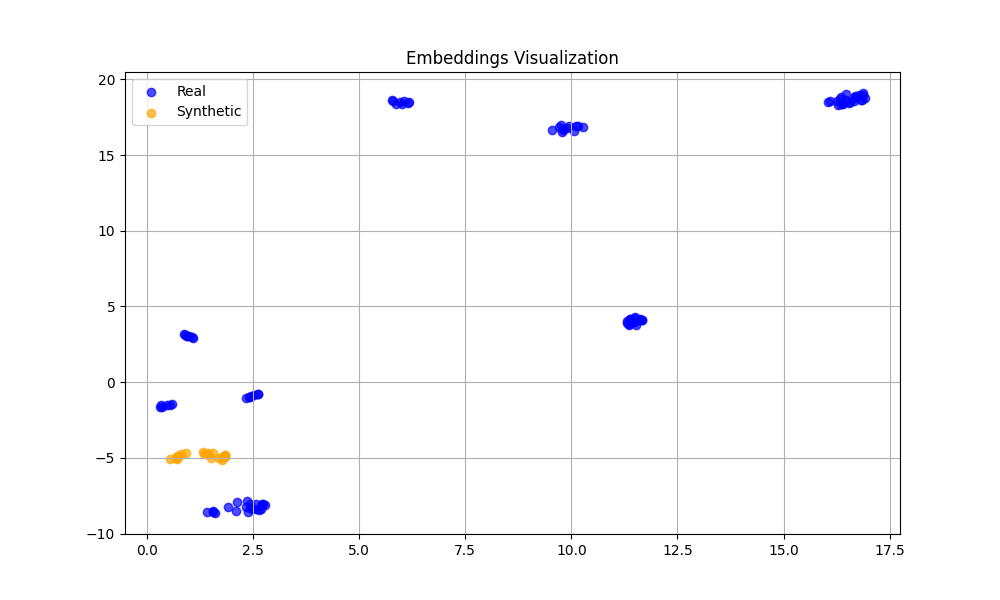
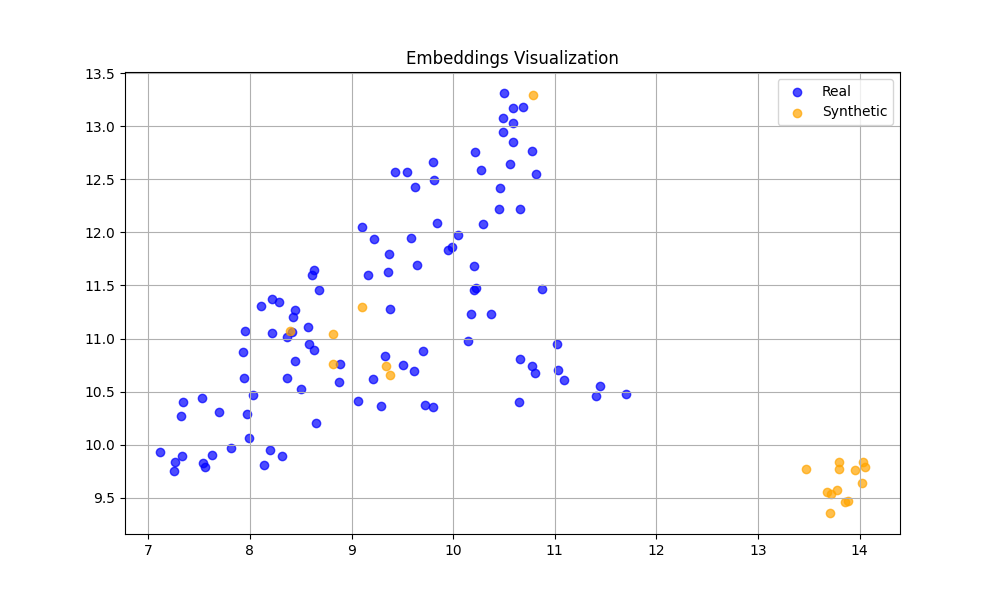
add metrics for whole datasets with L rephrasing

diff --git a/main.py b/main.py
@@ -95,24 +95,24 @@ def main():
     # save initial synthetic samples.
     log_samples(samples=seed_syn_samples, additional_info=seed_additional_info,
                 folder=f'{args.result_folder}/{start_t-1}')
-    if args.compute_fid:
+    # if args.compute_fid:
 
-        # print("-----------------------------111-\n\n", seed_syn_samples, "------------------------------\n\n")
+    #     print("-----------------------------111-\n\n", seed_syn_samples, "------------------------------\n\n")
 
-        synthetic_features = extract_features(
-            data=seed_syn_samples,
-            batch_size=args.feature_extractor_batch_size,
-            model_name=args.feature_extractor,
+    #     synthetic_features = extract_features(
+    #         data=seed_syn_samples,
+    #         batch_size=args.feature_extractor_batch_size,
+    #         model_name=args.feature_extractor,
 
-        )
-        # print("-----------------------------222-\n\n", len(synthetic_features), "------------------------------\n\n")
+    #     )
+    #     # print("-----------------------------222-\n\n", len(synthetic_features), "------------------------------\n\n")
 
-        # compute_fid(synthetic_features, all_private_features, args.feature_extractor,
-        #             folder=args.result_folder,  step=start_t-1, log_online=args.log_online)
+    #     # compute_fid(synthetic_features, all_private_features, args.feature_extractor,
+    #     #             folder=args.result_folder,  step=start_t-1, log_online=args.log_online)
         
-        log_metrics(all_private_samples, seed_syn_samples,  
-                    all_private_features, synthetic_features,
-                        step=start_t-1, log_online=args.log_online, result_folder=args.result_folder, epoch=start_t-1)
+    #     log_metrics(all_private_samples, seed_syn_samples,  
+    #                 all_private_features, synthetic_features,
+    #                     step=start_t-1, log_online=args.log_online, result_folder=args.result_folder, epoch=start_t-1)
 
     if args.init_combine_divide_L > 1:
         parent_directory = os.path.dirname(args.data_checkpoint_path)
@@ -153,6 +153,25 @@ def main():
                     args.init_combine_divide_L
             log_samples(samples=syn_samples, additional_info=additional_info,
                         folder=f'{args.result_folder}/-1')
+            
+            if args.compute_fid:
+
+                print("-----------------------------111-\n\n", "------------------------------\n\n")
+
+                synthetic_features = extract_features(
+                    data=syn_samples,
+                    batch_size=args.feature_extractor_batch_size,
+                    model_name=args.feature_extractor,
+
+                )
+                # print("-----------------------------222-\n\n", len(synthetic_features), "------------------------------\n\n")
+
+                # compute_fid(synthetic_features, all_private_features, args.feature_extractor,
+                #             folder=args.result_folder,  step=start_t-1, log_online=args.log_online)
+                
+                log_metrics(all_private_samples, syn_samples,  
+                            all_private_features, synthetic_features,
+                                step=start_t-1, log_online=args.log_online, result_folder=args.result_folder, epoch=start_t-1)
     else:
         syn_samples, additional_info = seed_syn_samples, seed_additional_info
 
@@ -192,6 +211,7 @@ def main():
 
         # iterate over # lookahead_degree variations.
         for i in range(packed_samples.shape[1]):
+            print("packed_samples")
             sub_packed_features = extract_features(
                 data=packed_samples[:, i],
                 batch_size=args.feature_extractor_batch_size,
@@ -199,6 +219,8 @@ def main():
 
             )
             packed_features.append(sub_packed_features)
+
+        print("before mean", len(packed_features))
 
         # take the averaged embedding for each sequence..
         packed_features = np.mean(packed_features, axis=0)
@@ -280,6 +302,9 @@ def main():
                 # logging.info(f'selected_syn_samples shape {len(selected_syn_samples)} label {len(selected_additional_info)}')
                 assert len(selected_syn_samples) == len(
                     selected_additional_info)
+                
+                print("selected_syn_samples")
+                print("selected_syn_samples", len(selected_syn_samples))
 
                 new_variants_samples = []
                 if args.combine_divide_L == 1:
@@ -309,21 +334,29 @@ def main():
                 # logging.info(f'new_variants_samples shape {len(new_variants_samples)} label {len(new_variants_additional_info)}')
 
                 new_syn_samples.extend(new_variants_samples)
+
+                print("new_syn_samples")
+                print(len(new_syn_samples))
+
                 new_additional_info.extend(new_variants_additional_info)
                 sync_labels_counter[class_] = len(
                     new_variants_samples)  # update class size
 
             if args.save_syn_mode == 'selected':
+                print('selected', len(all_selected_samples), len(selected_syn_samples))
                 all_selected_samples.extend(selected_syn_samples)
                 all_selected_additional_info.extend(selected_additional_info)
+                print('selected', len(all_selected_samples), len(selected_syn_samples))
             elif args.save_syn_mode == 'one_var':
                 all_selected_samples.extend(new_variants_samples_stacked[:, 0])
                 all_selected_additional_info.extend(selected_additional_info)
             elif args.save_syn_mode == 'all':
+                print('all', len(all_selected_samples), len(new_variants_samples))
                 all_selected_samples.extend(
                     new_variants_samples)  # all ---  L times size
                 all_selected_additional_info.extend(
                     new_variants_additional_info)
+                print('all',  len(all_selected_samples), len(new_variants_samples))
 
             current_idx += public_features.shape[0]
 
@@ -333,10 +366,10 @@ def main():
                                additional_info=all_selected_additional_info, folder=f'{args.result_folder}/{t}')
 
         if args.compute_fid:
-            # print("-----------------------------333-\n\n", all_selected_samples, "------------------------------\n\n")
+            print("-----------------------------333-\n\n", len(all_selected_samples), len(syn_samples), "------------------------------\n\n")
 
             synthetic_features = extract_features(
-                data=all_selected_samples,
+                data=syn_samples,
                 batch_size=args.feature_extractor_batch_size,
                 model_name=args.feature_extractor,
 
@@ -345,7 +378,7 @@ def main():
 
             # compute_fid(synthetic_features, all_private_features, args.feature_extractor,
             #             folder=args.result_folder,  step=t, log_online=args.log_online)
-            log_metrics(all_private_samples, all_selected_samples, 
+            log_metrics(all_private_samples, syn_samples, 
                         all_private_features, synthetic_features,
                         step=t, log_online=args.log_online, result_folder=args.result_folder, epoch=t)
 

diff --git a/metric.py b/metric.py
@@ -22,6 +22,7 @@ from datasets import load_dataset
 from dpsda.metrics import calculate_fid, num_tokens_from_string, get_lengths, plot_length_distributions, plot_metrics
 
 from dpsda.logging import *
+from dpsda.feature_extractor import extract_features
 from utility_eval.compute_mauve import *
 from utility_eval.precision_recall import *
 from apis.utils import set_seed 
@@ -30,7 +31,7 @@ import time
 os.environ["TOKENIZERS_PARALLELISM"] = "false"
 encoding = tiktoken.encoding_for_model("gpt-3.5-turbo")
 
-def eval_one_file(syn_fname, all_original_embeddings, model, csv_fname, batch_size, private_data_size, num_run, k, dataset="yelp", min_token_threshold=100, epoch=None, 
+def eval_one_file(syn_fname, all_original_embeddings, model_name_or_path, csv_fname, batch_size, private_data_size, num_run, k, dataset="yelp", min_token_threshold=100, epoch=None, 
                   real_file="", synthetic_folder=""):
     syn_data = load_dataset("csv", data_files=syn_fname)
 
@@ -48,19 +49,33 @@ def eval_one_file(syn_fname, all_original_embeddings, model, csv_fname, batch_si
             if len_d > min_token_threshold:
                 synthetic_data.append(d)
     elif dataset == "mimic":
+        print("This is mimic")
         synthetic_data = [d for d in syn_data['train']['text']]
+        print("--- syn data len 1 ---", (len(synthetic_data)))
+        df = pd.read_csv(syn_fname)
+        print(len(df))  
+        synthetic_data = df['text'].tolist()
+        print("--- syn data len 2 ---", (len(synthetic_data)))
+
     else:
         synthetic_data = [d for d in syn_data['train']['text']]
-    print("--- syn data len %d  ---" % (len(synthetic_data)))
+    print("--- syn data len ---", (len(synthetic_data)))
 
     start_time = time.time()
-    with torch.no_grad():
-        synthetic_embeddings = []
-        for i in tqdm(range(len(synthetic_data) // batch_size+1)):
-            embeddings = model.encode(
-                synthetic_data[i * batch_size:(i + 1) * batch_size])
-            synthetic_embeddings.append(embeddings)
-        all_synthetic_embeddings = np.concatenate(synthetic_embeddings)
+
+    all_synthetic_embeddings = extract_features(
+            data=synthetic_data,
+            batch_size=1024,
+            model_name=model_name_or_path,
+        )
+
+    # with torch.no_grad():
+    #     synthetic_embeddings = []
+    #     for i in tqdm(range(len(synthetic_data) // batch_size+1)):
+    #         embeddings = model.encode(
+    #             synthetic_data[i * batch_size:(i + 1) * batch_size])
+    #         synthetic_embeddings.append(embeddings)
+    #     all_synthetic_embeddings = np.concatenate(synthetic_embeddings)
 
     print("--- %s seconds for computing emb ---" % (time.time() - start_time))
 
@@ -96,12 +111,13 @@ def eval_one_file(syn_fname, all_original_embeddings, model, csv_fname, batch_si
             df = pd.read_csv(real_file)  
             real_text_list = df["text"].tolist()
 
-            metrics = compare_text_sets(real_text_list, synthetic_data, original_embeddings, synthetic_embeddings)
-
             real_lengths = get_lengths(real_text_list)
             synth_lengths = get_lengths(synthetic_data)
-            plots_folder = os.path.join(synthetic_folder, "plots_metrics")
+            plots_folder = os.path.join(synthetic_folder, "plots_metrics_inference")
             os.makedirs(plots_folder, exist_ok=True)
+
+            metrics = compare_text_sets(real_text_list, synthetic_data, original_embeddings, synthetic_embeddings, result_folder=plots_folder, epoch=epoch)
+
             plot_length_distributions(real_lengths, synth_lengths, filename=os.path.join(plots_folder, f"length_distribution_{epoch}.png"))
 
 
@@ -207,8 +223,8 @@ def main():
                notes=args.wandb_notes,
                config=vars(args))
     
-    model = SentenceTransformer(args.model_name_or_path)
-    model.eval()
+    # model = SentenceTransformer(args.model_name_or_path)
+    # model.eval()
 
     dataset2embedding_file = {
         "yelp": f"result/embeddings/{args.model_name_or_path}/yelp_train_all.embeddings.npz",
@@ -232,7 +248,7 @@ def main():
                 args.synthetic_file), 'eval_metric.csv')
             metrics = eval_one_file(syn_fname=args.synthetic_file, 
                                   all_original_embeddings=all_original_embeddings, 
-                                  model=model,
+                                  model=args.model_name_or_path,
                                   csv_fname=csv_fname, 
                                   batch_size=args.batch_size,
                                   private_data_size=args.private_data_size,
@@ -273,7 +289,7 @@ def main():
                 print(f'Processing {csv_fname}')
                 metrics = eval_one_file(syn_fname=syn_data_file, 
                                       all_original_embeddings=all_original_embeddings, 
-                                      model=model,
+                                      model=args.model_name_or_path,
                                       csv_fname=csv_fname, 
                                       batch_size=args.batch_size,
                                       private_data_size=args.private_data_size,

diff --git a/dpsda/feature_extractor.py b/dpsda/feature_extractor.py
@@ -1,6 +1,7 @@
 import numpy as np
 from tqdm import tqdm
 import torch
+from transformers import AutoTokenizer, AutoModel
 from sentence_transformers import SentenceTransformer
 
 # https://github.com/UKPLab/sentence-transformer
@@ -9,19 +10,59 @@ from sentence_transformers import SentenceTransformer
 def extract_features(
         data,
         batch_size=1000,
-        model_name="all-mpnet-base-v2"):
+        model_name="all-mpnet-base-v2", sentence_transformer=True):
     # If available, the model is automatically executed on the GPU. You can specify the device for the model like this:
 
-    model = SentenceTransformer(model_name)  # device='cuda',
-    model.eval()
+    if sentence_transformer:
+        model = SentenceTransformer(model_name)  # device='cuda',
+        model.eval()
 
+        with torch.no_grad():
+            sentence_embeddings = []
+            for i in tqdm(range(len(data) // batch_size+1)):
+                embeddings = model.encode(
+                    data[i * batch_size:(i + 1) * batch_size])
+                if len(embeddings) > 0:
+                    sentence_embeddings.append(embeddings)
+        sentence_embeddings = np.concatenate(sentence_embeddings)
+        del model
+
+        print("Shape length of sentence_embeddings", sentence_embeddings.shape)
+
+        return sentence_embeddings
+    
+    tokenizer = AutoTokenizer.from_pretrained(model_name)
+    model = AutoModel.from_pretrained(model_name)
+    model.eval()
+    
+    # Move model to GPU if available
+    device = torch.device("cuda" if torch.cuda.is_available() else "cpu")
+    model = model.to(device)
+    
+    sentence_embeddings = []
+    
     with torch.no_grad():
-        sentence_embeddings = []
-        for i in tqdm(range(len(data) // batch_size+1)):
-            embeddings = model.encode(
-                data[i * batch_size:(i + 1) * batch_size])
+        for i in tqdm(range(0, len(data), batch_size)):
+            batch = data[i:i + batch_size]
+            
+            # Tokenize and move to device
+            inputs = tokenizer(
+                batch, 
+                padding=True, 
+                truncation=True, 
+                return_tensors="pt", 
+                max_length=512  # Adjust based on your needs
+            ).to(device)
+            
+            # Forward pass
+            outputs = model(**inputs)
+            
+            # Use mean pooling for sentence embeddings
+            embeddings = outputs.last_hidden_state.mean(dim=1).cpu().numpy()
+            
             if len(embeddings) > 0:
                 sentence_embeddings.append(embeddings)
+    
     sentence_embeddings = np.concatenate(sentence_embeddings)
-    del model
+    del model, tokenizer  # Free memory
     return sentence_embeddings

diff --git a/dpsda/metrics.py b/dpsda/metrics.py
@@ -410,9 +410,12 @@ def plot_embeddings(real_features, synthetic_features, method="tsne", title="Emb
 
 def compare_text_sets(real_texts, synthetic_texts, emb_real, emb_synth, result_folder="", epoch=0):
 
-    plots_folder = os.path.join(result_folder, "plots_metrics")
-    os.makedirs(plots_folder, exist_ok=True)
-    plot_embeddings(emb_real, emb_synth, filename=os.path.join(plots_folder, f"embeddings_{epoch}.png"), n_components=3, method="umap")
+    print("All length")
+    print(len(real_texts), len(synthetic_texts), len(emb_real), len(emb_synth))
+
+    # plots_folder = os.path.join(result_folder, "plots_metrics")
+    # os.makedirs(plots_folder, exist_ok=True)
+    plot_embeddings(emb_real, emb_synth, filename=os.path.join(result_folder, f"embeddings_{epoch}.png"), n_components=3, method="umap")
 
     metrics = {}
 

diff --git a/utility_eval/precision_recall.py b/utility_eval/precision_recall.py
@@ -260,8 +260,8 @@ def main():
     synthetic_labels = ["\t".join(
         [line[idx] for idx in label_column_index]) for line in syn_data['train']]
 
-    model = SentenceTransformer(args.model_name_or_path)
-    model.eval()
+    # model = SentenceTransformerargs.model_name_or_path
+    # model.eval()
 
     with torch.no_grad():
         synthetic_embeddings = []

diff --git a/apis/hf_api.py b/apis/hf_api.py
@@ -71,7 +71,7 @@ class HFAPI(API):
         self.length_std = length_std
         self.length_min = length_min
         self.length_max = length_max
-
+  
         if model_name_or_path=="gpt2":
             self.use_ollama = False
         else:
